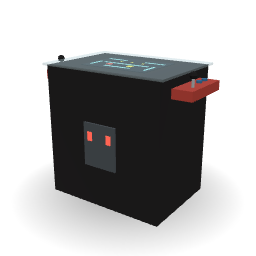
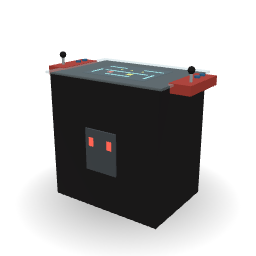
Arcade machines, final review: the cocktail table's controls at its top and its light above the glass, upright depth, brief parts tables

diff --git a/art/scripts/household.py b/art/scripts/household.py
@@ -1127,7 +1127,7 @@ def _upright_screen(p, w, foot, head):
 @piece("service", "ArcadeUpright")
 def arcade_upright():
     """A one-player upright video arcade cabinet (generic, no game's art): the side profile with the control panel at the waist, the screen
-    leaning back above it, a lit marquee overhanging the top; side art; a coin door. 0.66 x 0.72 x 1.75 m (0.64 wide without the side art)."""
+    leaning back above it, a lit marquee overhanging the top; side art; a coin door. 0.66 x 0.84 x 1.75 m (0.64 wide without the side art, 0.72 deep without the control panel)."""
     p = Prop("GH_ArcadeUpright_01")
     w, y_front, y_back, base_h = 0.64, -0.30, 0.42, 0.86
     foot, head = (y_front, base_h), (-0.14, 1.50)                                # the sloping screen face
@@ -1152,7 +1152,7 @@ def arcade_upright():
 @piece("service", "ArcadeCocktail")
 def arcade_cocktail():
     """A sit-down cocktail-table arcade game: a black box with the screen facing up under a glass top, a control panel at each short end
-    (the two players face each other across it), a coin door on the front. 0.92 x 0.53 x 0.76 m."""
+    (the two players face each other across it), a coin door on the front. 0.92 x 0.53 x 0.75 m at the glass, 0.83 m to the joystick tops."""
     p = Prop("GH_ArcadeCocktail_01")
     w, d, h = 0.7, 0.5, 0.74
     p.box("black", (0, 0, h / 2), (w, d, h))
@@ -1162,10 +1162,11 @@ def arcade_cocktail():
     p.box("clear_glass", (0, 0, h + 0.004), (w + 0.04, d + 0.03, 0.012))        # the glass top, its underside 2 mm below the cabinet's top
     for sx in (-1, 1):
         cx = sx * (w / 2 + 0.06 - 0.01)                                         # the panels: 1 cm into the cabinet's ends
-        p.box("cloth_red", (cx, 0, h - 0.08), (0.12, 0.3, 0.05))
-        _joystick(p, (cx + sx * 0.02, -0.07, h - 0.055))
+        panel_top = h + 0.012                                                   # the controls are at the table's top, 2 mm above the glass's edge in them
+        p.box("cloth_red", (cx, 0, panel_top - 0.025), (0.12, 0.3, 0.05))
+        _joystick(p, (cx + sx * 0.02, -0.07, panel_top))
         for dy in (0.04, 0.1):
-            p.cyl("label_blue", (cx, dy, h - 0.055 + 0.006 - SINK), 0.016, 0.012, n=8)
+            p.cyl("label_blue", (cx, dy, panel_top + 0.006 - SINK), 0.016, 0.012, n=8)
     _coin_door(p, 0, -d / 2, 0.35, w=0.2, h=0.24)
     return p
 

diff --git a/art/scripts/emitters.py b/art/scripts/emitters.py
@@ -86,7 +86,7 @@ SPECS = {
     "Dryer": ([sound("Tumble", (0.5, 0.5, 0.5), "washer", loop=True, loudness=0.3)], ("power", "noisy")),
     "VendingMachine": ([light("Panel", (0.4, 0.0, 0.6), colour="cool", range=4), sound("Hum", (0.5, 0.5, 0.5), "vending_hum", loop=True, loudness=0.25), sound("Clunk", (0.4, 0.0, 0.1), "clunk", loudness=0.4, when="trigger")], ("power", "noisy", "jam")),
     "ArcadeUpright": ([light("Screen", (0.5, 0.1, 0.7), colour="cool", range=3), sound("Attract", (0.5, 0.3, 0.6), "arcade", loop=True, loudness=0.4)], ("power", "noisy")),
-    "ArcadeCocktail": ([light("Screen", (0.5, 0.5, 0.95), colour="cool", range=3), sound("Attract", (0.5, 0.5, 0.6), "arcade", loop=True, loudness=0.4)], ("power", "noisy")),
+    "ArcadeCocktail": ([light("Screen", (0.5, 0.5, 0.93), colour="cool", range=3), sound("Attract", (0.5, 0.5, 0.6), "arcade", loop=True, loudness=0.4)], ("power", "noisy")),
     "Pinball": ([light("Backglass", (0.5, 0.75, 0.85), colour="warm", range=3), sound("Attract", (0.5, 0.5, 0.6), "pinball", loop=True, loudness=0.5)], ("power", "noisy")),
     "Jukebox": ([light("Glow", (0.5, 0.0, 0.6), colour="warm", range=4), sound("Music", (0.5, 0.3, 0.5), "jukebox", loop=True, loudness=0.7)], ("power", "noisy")),
     "CoffeeMachine": ([sound("Brew", (0.5, 0.5, 0.4), "brew", loop=True, loudness=0.2), light("Led", (0.5, 0.0, 0.5), colour="red", range=0.3, intensity=0.3)], ("power", "noisy")),

diff --git a/docs/assets/briefs/service-appliances.md b/docs/assets/briefs/service-appliances.md
@@ -86,7 +86,7 @@ Colours (palette names): `black` cabinets, `screen` and `glow_cyan`, `glow_red`,
 
 - Front -Y (the player stands at -Y; the cocktail table's players sit at its two short ends, ±X), origin on the floor at the centre of the base.
 - Furniture and appliance class: 300-1,200 triangles each.
-- No moving parts. Markers (`emitters.SPECS`): a cool `Screen` light and a looping `Attract` sound for each (traits power and noisy).
+- No moving parts. Markers (`emitters.SPECS`): a cool `Screen` light on the upright and the cocktail table, a warm `Backglass` light on the pinball, and a looping `Attract` sound for each (traits power and noisy).
 
 ## Parts: upright (W 0.64; y from the front: -0.42 control panel, -0.30 base front, +0.42 back)
 
@@ -96,12 +96,37 @@ Colours (palette names): `black` cabinets, `screen` and `glow_cyan`, `glow_red`,
 | Screen section | prism, profile (y, z): (-0.30, 0.86), (0.42, 0.86), (0.42, 1.50), (-0.14, 1.50): the front leans back 14 degrees | x ±0.32 | on the base |
 | Marquee box | 0.64 x 0.66 x 0.25, `black` | y -0.24 to 0.42, z 1.50 to 1.75 | on the screen section; overhangs its front by 10 cm |
 | Marquee light | 0.58 x 0.012 x 0.17, `glow_amber` | on the marquee box's front | sunk 2 mm |
-| Bezel, screen, pixels | parallel to the sloping face: `black` 0.56 x 0.50, `screen` 0.44 x 0.36, lit blocks | on the sloping face | each sunk into the one behind |
+| Bezel, screen, pixels | parallel to the sloping face: `metal_dark` 0.56 x 0.52, `screen` 0.44 x 0.36, lit blocks | on the sloping face | each sunk into the one behind |
 | Control panel | 0.64 x 0.18 x 0.05, tilted 12 degrees towards the player, `cloth_red` | front edge at y -0.42, z about 0.88, its underside on the base's front edge | sunk into the base front |
 | Joystick, buttons | a `metal_galv` stick with a `black` ball; three `label_blue` buttons | on the panel's face | sunk into it |
 | Coin door | 0.26 x 0.012 x 0.30, `metal_dark`; two `glow_red` slots | z 0.30 to 0.60 on the base front | sunk 2 mm |
 | Side art | a 0.006 thick `label_blue` panel and a `cloth_red` stripe on each side | x ±0.322 | sunk 2 mm into the side |
 
-The cocktail table's and the pinball's parts follow the same rules (each part sunk into what it stands on, decals 2 mm proud of their face, thin plates with their own depth) and are listed in the script's docstrings.
+## Parts: cocktail table (cabinet 0.70 x 0.50 x 0.74)
+
+| Part | Size or shape | Position | Attaches to |
+|---|---|---|---|
+| Cabinet | 0.70 x 0.50 x 0.74 box, `black` | z 0 to 0.74 | the floor |
+| Screen and lit blocks | 0.40 x 0.30 x 0.004 `screen`, blocks 0.002 thick | z 0.739 to 0.743, blocks 0.5 mm into it | sunk 1 mm into the top |
+| Glass top | 0.74 x 0.53 x 0.012, `clear_glass` | z 0.738 to 0.750 | its underside 2 mm into the top; the screen inside it |
+| Control panels | 0.12 x 0.30 x 0.05, `cloth_red` | x ±0.34 to ±0.46, top at z 0.752 | 1 cm into the cabinet's ends; the glass's ends 3 cm into them |
+| Joysticks, buttons | as on the upright | on the panels' tops | sunk 2 mm |
+| Coin door | 0.20 x 0.012 x 0.24, `metal_dark`, two `glow_red` slots | front, z 0.23 to 0.47 | sunk 2 mm |
+
+## Parts: pinball (cabinet 0.70 x 1.30 x 0.30, tilted 6.5 degrees, centre (0, -0.06, 0.85))
+
+Positions along the cabinet (ly, from its middle; front -0.65) and out from its top face (lz, top 0.15) are turned by the tilt.
+
+| Part | Size or shape | Position | Attaches to |
+|---|---|---|---|
+| Cabinet | 0.70 x 1.30 x 0.30 box, `black` | front top z 0.93, back top 1.07 | the legs |
+| Legs | 0.05 x 0.05 `metal_galv`, four | x ±0.30, ly -0.57 and 0.53 | the floor; 2 cm into the cabinet's underside |
+| Playfield | 0.62 x 0.98 x 0.006, `label_blue` | ly -0.53 to the backbox's front (0.45) | 2 mm into the top |
+| Bumpers, lanes, flippers, slingshots | 4 mm discs and bars, `cloth_red`, `paint_yellow`, `paint_white` | on the field | 1 mm into it |
+| Side rails | 0.03 x 1.296 x 0.03, `metal_galv` | x ±0.333 | 2 mm into the top, inside its sides and ends |
+| Glass | 0.66 x 1.08 x 0.008, `clear_glass` | ly -0.61 to 0.47, lz 0.159 to 0.167 | its sides in the rails, its far end 2 cm into the backbox |
+| Backbox | 0.70 x 0.23 x 0.93, `black` | y 0.37 to 0.60, z 1.00 to 1.93 | stands on the cabinet's back end (its front meets the top at z 1.00) |
+| Backglass, art, speaker | `glow_amber` 0.62 x 0.40, blocks; `metal_dark` 0.62 x 0.20 with `black` bars | backbox front | each sunk 1 to 2 mm |
+| Coin door, slots, plunger, flipper buttons | `metal_dark`, `glow_red`, `metal_galv`/`black`, `label_white` | front face; sides | sunk 2 mm |
 
 Checks: `audit_props.py` (no gap, coplanar or floating finding), thumbnails, four sides in Blender.

diff --git a/NOTES.md b/NOTES.md
@@ -344,4 +344,6 @@ Fable final review of the jukebox (PR #195): fixed a scalloped brown gap between
 
 ## Arcade machines (2026-10-27, branch `models/arcade`)
 
-The owner asked for arcade machines. Three new models (generic designs, no game's or maker's art), brief in `docs/assets/briefs/service-appliances.md`: `GH_ArcadeUpright_01` (an upright video cabinet, 0.66 x 0.72 x 1.75 m: the side profile with the control panel at the waist, the screen leaning back above it, a lit marquee; side art, a coin door), `GH_ArcadeCocktail_01` (a sit-down cocktail table, 0.92 x 0.53 x 0.76 m, the screen under a glass top, a control panel at each end) and `GH_Pinball_01` (0.73 x 1.40 x 1.93 m with the plunger, sloping cabinet on chrome legs, playfield under glass, lit backbox, plunger). Built with `household.py` in the `room_hou_service` group; `Screen`/`Backglass` lights and `Attract` sounds in `emitters.SPECS`; colour parts named in `art/data/part_names.json`. The site goes to 504 models. **Checked:** `audit_props.py` (0 problems with the `prop-fit-audit` branch's gap, coplanar and reveal tests), the three in Blender from a 3/4 angle, the side and above, the thumbnails. **Not done:** a claw crane, a sit-down racer, air hockey and skee-ball (listed in the brief).
+The owner asked for arcade machines. Three new models (generic designs, no game's or maker's art), brief in `docs/assets/briefs/service-appliances.md`: `GH_ArcadeUpright_01` (an upright video cabinet, 0.66 x 0.84 x 1.75 m: the side profile with the control panel at the waist, the screen leaning back above it, a lit marquee; side art, a coin door), `GH_ArcadeCocktail_01` (a sit-down cocktail table, 0.92 x 0.53 x 0.75 m at the glass, the screen under a glass top, a control panel at each end) and `GH_Pinball_01` (0.73 x 1.40 x 1.93 m with the plunger, sloping cabinet on chrome legs, playfield under glass, lit backbox). Built with `household.py` in the `room_hou_service` group; `Screen`/`Backglass` lights and `Attract` sounds in `emitters.SPECS`; colour parts named in `art/data/part_names.json`. The site goes to 504 models. **Checked:** `audit_props.py` (0 problems with the `prop-fit-audit` branch's gap, coplanar and reveal tests), the three in Blender from a 3/4 angle, the side and above, the thumbnails. **Not done:** a claw crane, a sit-down racer, air hockey and skee-ball (listed in the brief).
+
+Fable final review of the arcade machines (PR #197): fixed the cocktail table's `Screen` light, which sat inside the cabinet (now above the glass), its control panels hanging 5 cm below the top like shelves (now at the top, the glass's ends in them), the upright's quoted depth (0.84 with the control panel), and the brief (parts tables for the cocktail table and the pinball, the bezel row, the pinball's warm `Backglass` light).
